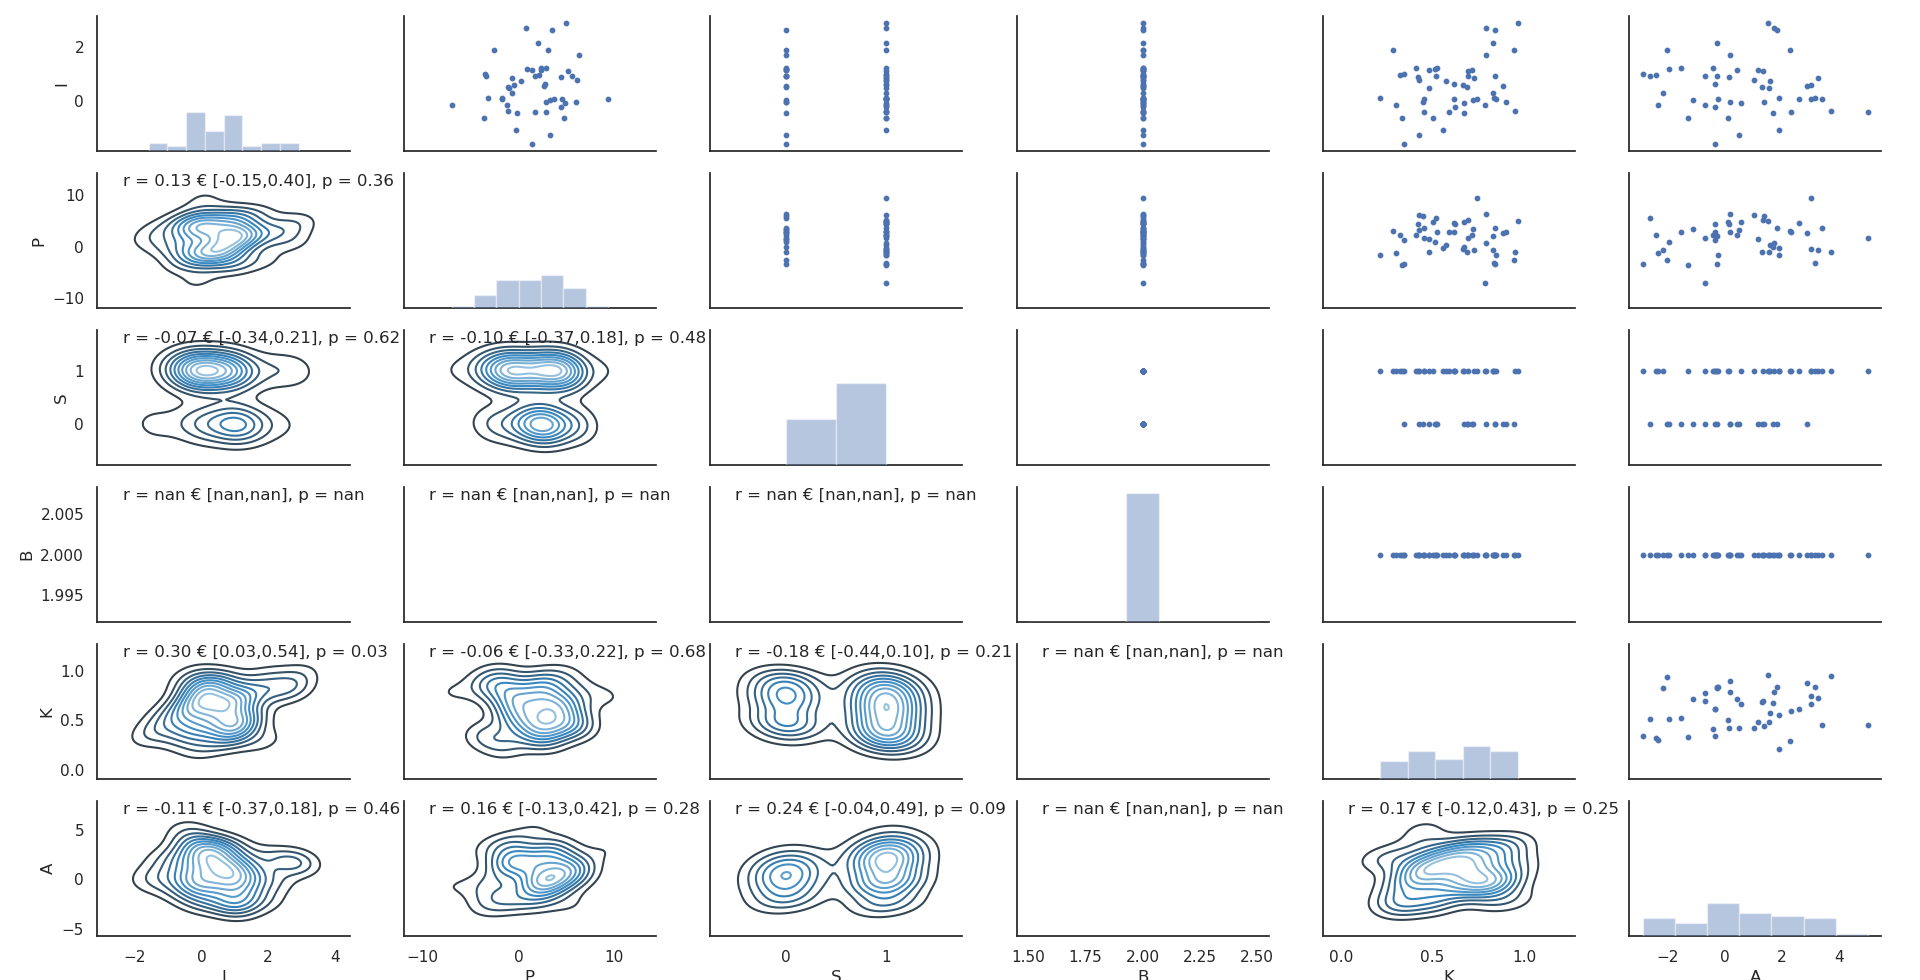
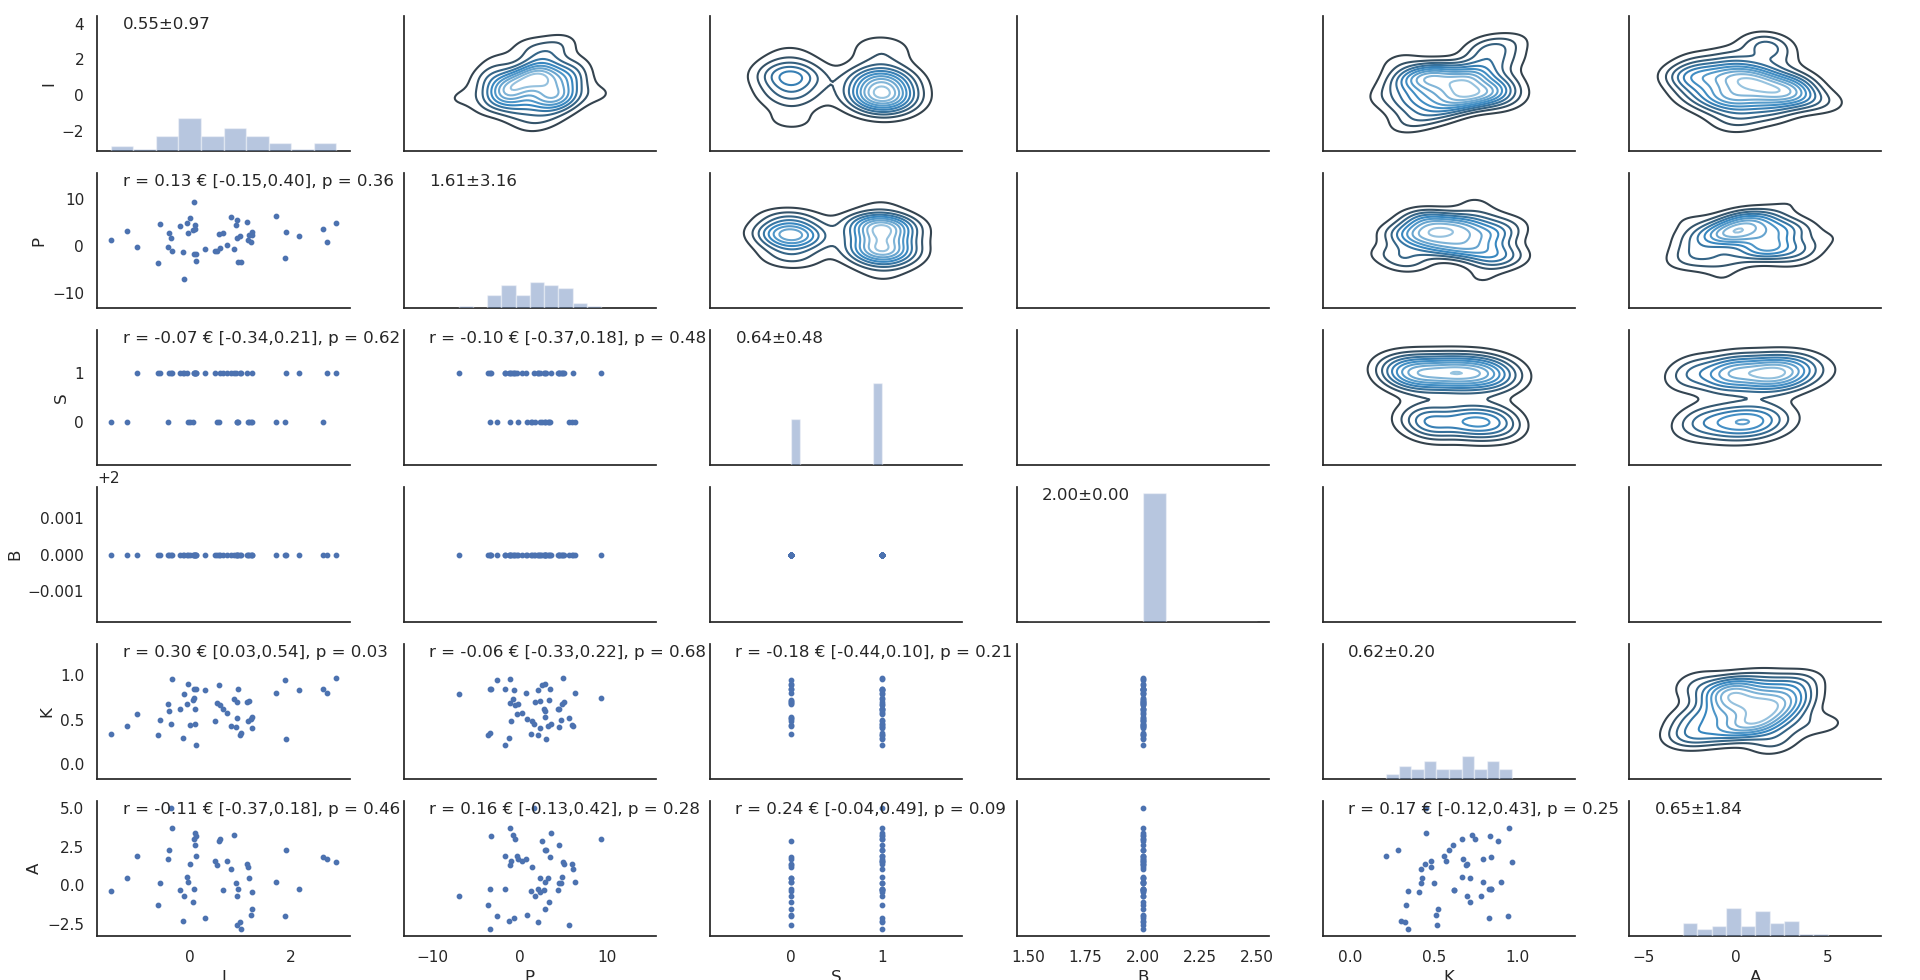
nicer plots

diff --git a/src/helpers.py b/src/helpers.py
@@ -7,33 +7,39 @@ import matplotlib.pyplot as plt
 #Taken from https://zhiyzuo.github.io/Pearson-Correlation-CI-in-Python/
 
 def pearsonr_ci(x,y,alpha=0.05, _print=True):
-    ''' calculate Pearson correlation along with the confidence interval using scipy and numpy
-    Parameters
-    ----------
-    x, y : iterable object such as a list or np.array
-      Input for correlation calculation
-    alpha : float
-      Significance level. 0.05 by default
-    Returns
-    -------
-    r : float
-      Pearson's correlation coefficient
-    pval : float
-      The corresponding p value
-    lo, hi : float
-      The lower and upper bound of confidence intervals
-    '''
+	''' calculate Pearson correlation along with the confidence interval using scipy and numpy
+	Parameters
+	----------
+	x, y : iterable object such as a list or np.array
+	Input for correlation calculation
+	alpha : float
+	Significance level. 0.05 by default
+	Returns
+	-------
+	r : float
+	Pearson's correlation coefficient
+	pval : float
+	The corresponding p value
+	lo, hi : float
+	The lower and upper bound of confidence intervals
+	'''
 
-    r, p = stats.pearsonr(x,y)
-    r_z = np.arctanh(r)
-    se = 1/np.sqrt(x.size-3)
-    z = stats.norm.ppf(1-alpha/2)
-    lo_z, hi_z = r_z-z*se, r_z+z*se
-    lo, hi = np.tanh((lo_z, hi_z))
-    if _print: print(f"\t corr {r:.3f} in [{lo:.3f}, {hi:.3f}], with p={p:.3f}")
-    return lo, hi, p
+	r, p = stats.pearsonr(x,y)
+	r_z = np.arctanh(r)
+	se = 1/np.sqrt(x.size-3)
+	z = stats.norm.ppf(1-alpha/2)
+	lo_z, hi_z = r_z-z*se, r_z+z*se
+	lo, hi = np.tanh((lo_z, hi_z))
+	if _print: print(f"\t corr {r:.3f} in [{lo:.3f}, {hi:.3f}], with p={p:.3f}")
+	return lo, hi, p
 
 def corrfunc(x, y, **kws):
-    r, _ = stats.pearsonr(x, y)
-    ax = plt.gca()
-    ax.annotate("r = {:.2f} € [{:.2f},{:.2f}], p = {:.2f} ".format(r, *pearsonr_ci(x,y,_print=False)), xy=(.1, .9), xycoords=ax.transAxes)
+	r, _ = stats.pearsonr(x, y)
+	ax = plt.gca()
+	if not np.isnan(r): ax.annotate("r = {:.2f} € [{:.2f},{:.2f}], p = {:.2f} ".format(r, *pearsonr_ci(x,y,_print=False)), xy=(.1, .9), xycoords=ax.transAxes)
+
+def meanfunc(x, **kws):
+	m, s = x.mean(), x.std()
+	ax = plt.gca()
+	ax.annotate(f"{m:.2f}±{s:.2f}", xy=(.1, .9), xycoords=ax.transAxes)
+

diff --git a/src/causality_inference.py b/src/causality_inference.py
@@ -8,7 +8,7 @@ import matplotlib.pyplot as plt
 import seaborn as sb
 from scipy.stats import ttest_ind, bartlett
 
-from helpers import pearsonr_ci, corrfunc
+from helpers import pearsonr_ci, corrfunc, meanfunc
 
 ###################
 # Assumes causality data is given in saved_data/causality
@@ -42,9 +42,11 @@ def summary_analyze(data: pd.DataFrame, visual_pairs: list = [], condition: tupl
 
 	# Joint and marginal
 	g = sb.PairGrid(data, palette=["red"])
-	g.map_upper(plt.scatter, s=10)
-	g.map_diag(sb.distplot, kde=False)
-	g.map_lower(sb.kdeplot, cmap="Blues_d")
+	g.map_diag(sb.distplot, kde=False, bins=10)
+	g.map_diag(meanfunc)
+	g.map_upper(sb.kdeplot, cmap="Blues_d")
+
+	g.map_lower(plt.scatter, s=10)
 	g.map_lower(corrfunc)
 	plt.show()
 
@@ -61,6 +63,7 @@ if __name__ == "__main__":
 	os.chdir(sys.path[0])
 	datalist = csv_read('saved_data/causality')
 
+	summary_analyze(datalist[0])
 	summary_analyze(datalist[1])
 
 	summary_analyze(datalist[2])
